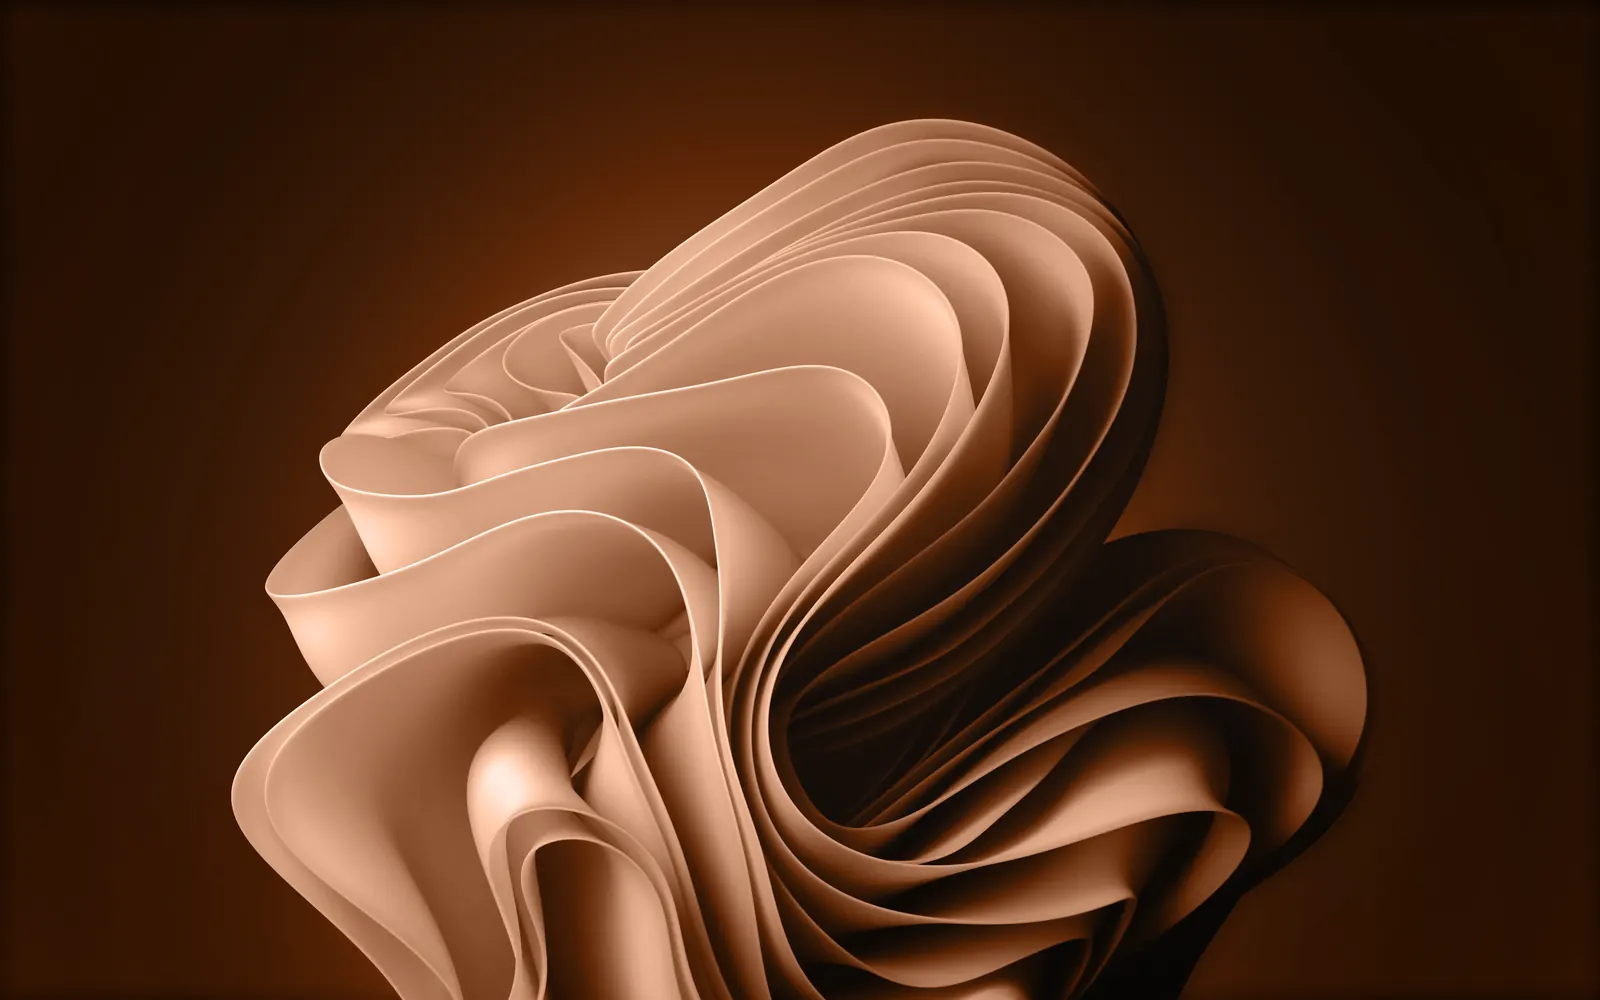
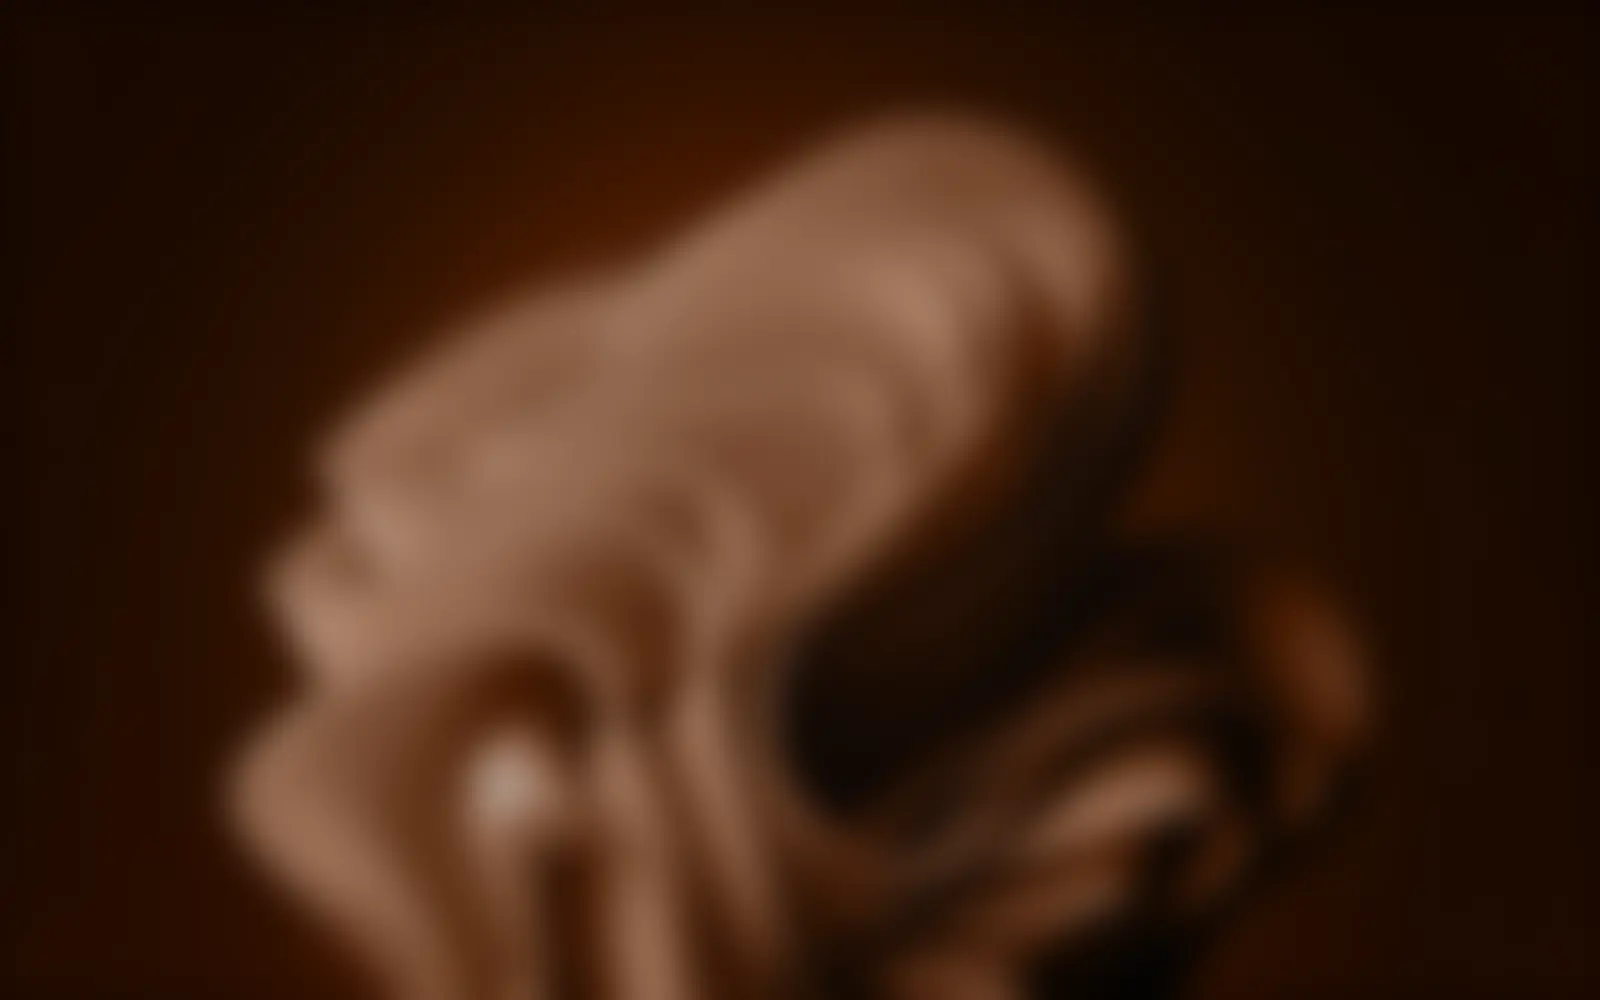
fix(perf): improved bg blur performance by pre-baking blur into image

diff --git a/src/root/globals.scss b/src/root/globals.scss
@@ -22,8 +22,6 @@
     --noise-opacity: 0.12;
 
     --bg-wallpaper-image: url('/images/bg-wallpaper-dark.webp');
-    --bg-image-brightness: 0.68;
-    --bg-image-blur: 18px;
     --bg-overlay: linear-gradient(180deg, rgba(12, 10, 9, 0.38) 0%, rgba(12, 10, 9, 0.55) 50%, rgba(12, 10, 9, 0.75) 100%), radial-gradient(circle at 50% 0%, rgba(249, 115, 22, 0.07) 0%, transparent 70%);
 
     --ambient-glow: hsla(24, 95%, 53%, 0.12);
@@ -118,8 +116,6 @@
         --noise-opacity: 0.18;
 
         --bg-wallpaper-image: url('/images/bg-wallpaper-light.webp');
-        --bg-image-brightness: 0.96;
-        --bg-image-blur: 18px;
         --bg-overlay: linear-gradient(180deg, rgba(250, 247, 242, 0.40) 0%, rgba(250, 247, 242, 0.65) 100%);
 
         --ambient-glow: hsla(24, 95%, 53%, 0.04);
@@ -157,16 +153,13 @@ body {
     &::before {
         content: '';
         position: fixed;
-        inset: -50px;
+        inset: 0;
         background-image: var(--bg-wallpaper-image);
         background-size: cover;
         background-position: center;
         background-repeat: no-repeat;
-        filter: blur(var(--bg-image-blur, 18px)) brightness(var(--bg-image-brightness, 0.68)) saturate(1.18);
-        transform: scale(1.06);
         z-index: -2;
         pointer-events: none;
-        will-change: transform, filter;
     }
 
     &::after {
